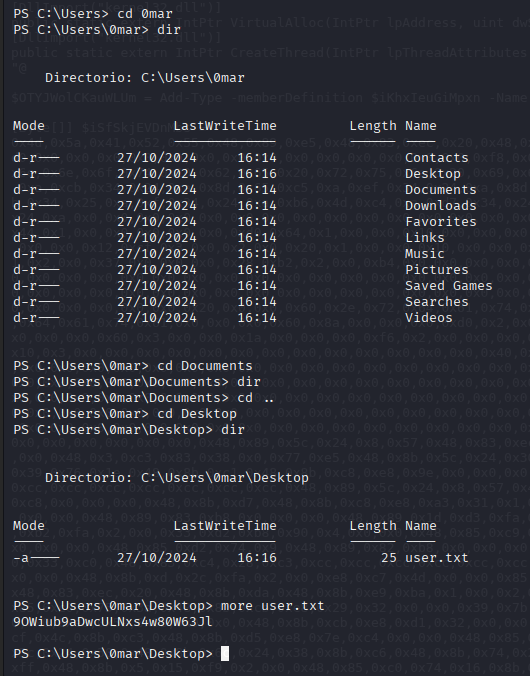
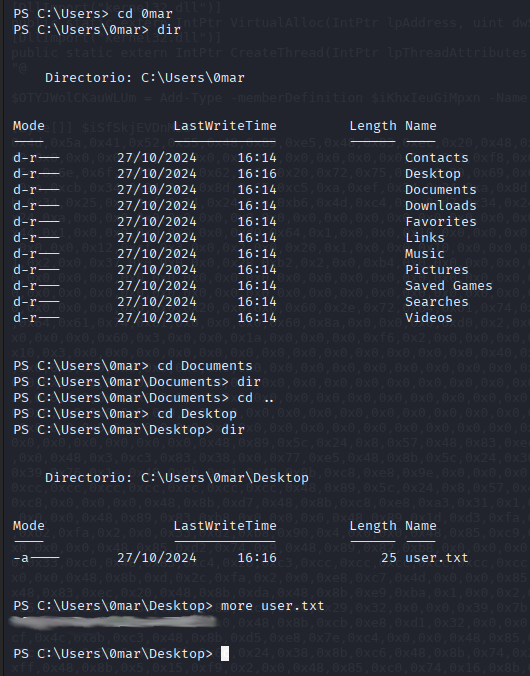
commit

Changed region(s): [[0.0, 0.9009, 0.4226, 0.932]]

diff --git a/security/writeups/grillo-machine/grillo-machine.md b/security/writeups/grillo-machine/grillo-machine.md
@@ -64,7 +64,7 @@ Como vemos, el usuario `melanie` tiene una clave dentro del diccionario de rocky
 <figcaption></figcaption>
 </figure>
 
-En el home del usuario está la primera flag del archivo `user.txt 9fe2028a405f33a6dae75e4c60c78f82`
+En el home del usuario está la primera flag del archivo `user.txt`
 <figure>
 <img src="./attachments/fig10.png" />
 <figcaption></figcaption>
@@ -98,8 +98,6 @@ Listamos en el directorio `/root` y obtenemos la flag `root.txt`
 <img src="./attachments/fig15.png" />
 <figcaption></figcaption>
 </figure>
-
-914ea930fea11076f641cc3970187d29
 
 También se podría haber generado en el atacante o llevarnos la llave al atacante
 <figure>

diff --git a/security/writeups/theoffice-machine/theoffice-machine.md b/security/writeups/theoffice-machine/theoffice-machine.md
@@ -455,7 +455,7 @@ Observamos que sólo podemos ingresar al host `172.101.0.11`
 </figure>
 
 En su home obtenemos la primera flag (archivo `user.txt`)
-`flag{61992ce8bc28cb06461c82d62584e718}`
+`flag{xxxxxxxxxxxxxxxxxxxxxxx}`
 
 <figure>
 <img src="./attachments/fig56.png" alt="cat user.txt">
@@ -620,6 +620,3 @@ Finalmente nos dirigimos a la carpeta /root y tenemos el archivo que buscábamos
 <img src="./attachments/fig75.png" alt="get flag root.txt">
 </figure>
 
-```
-flag{f73a64a82b4dbeaf43f308999c5b380f}
-```

diff --git a/security/writeups/quokka-machine/quokka-machine.md b/security/writeups/quokka-machine/quokka-machine.md
@@ -116,10 +116,9 @@ Vemos que en el usuario 0mar tenemos el archivo user.txt
 <img src="./attachments/fig17.png" />
 <figcaption></figcaption>
 </figure>
-Flag user.txt `9OWiub9aDwcULNxs4w80W63Jl`
+
 
 Y como somos administrador, podemos ver el desktop también de este usuario. Obtenemos admin.txt
-Flag admin.txt `j9eCpd89VGOscar4nQp8e842mUOb8U`
 <figure>
 <img src="./attachments/fig18.png" />
 <figcaption></figcaption>
